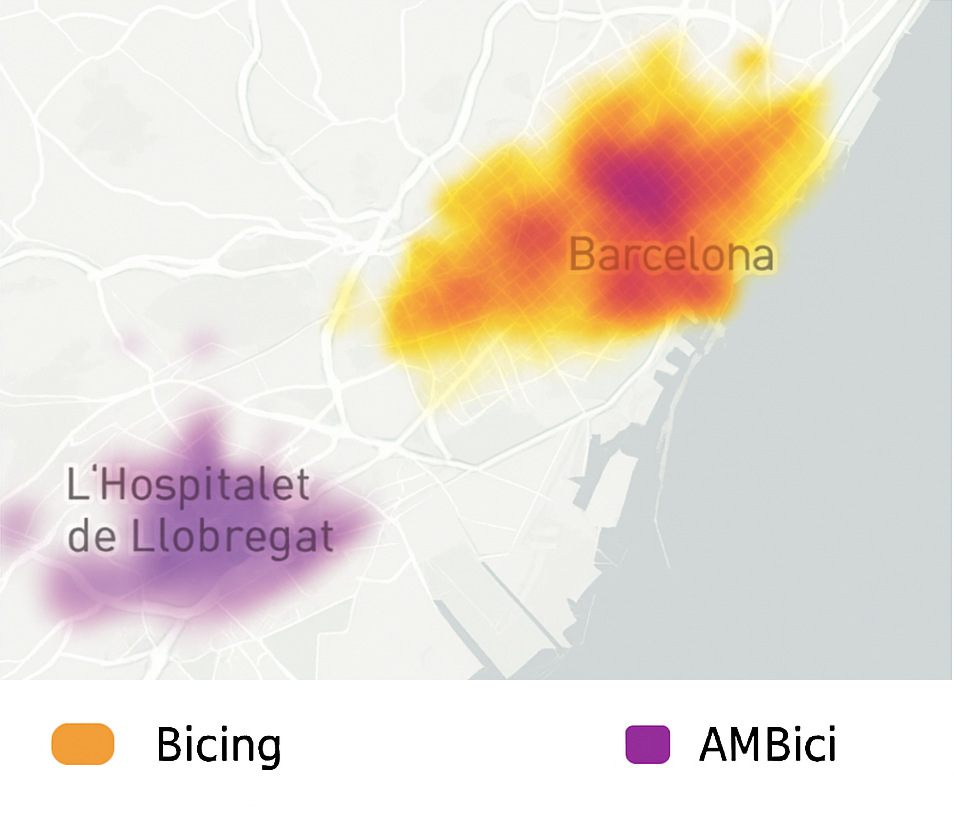
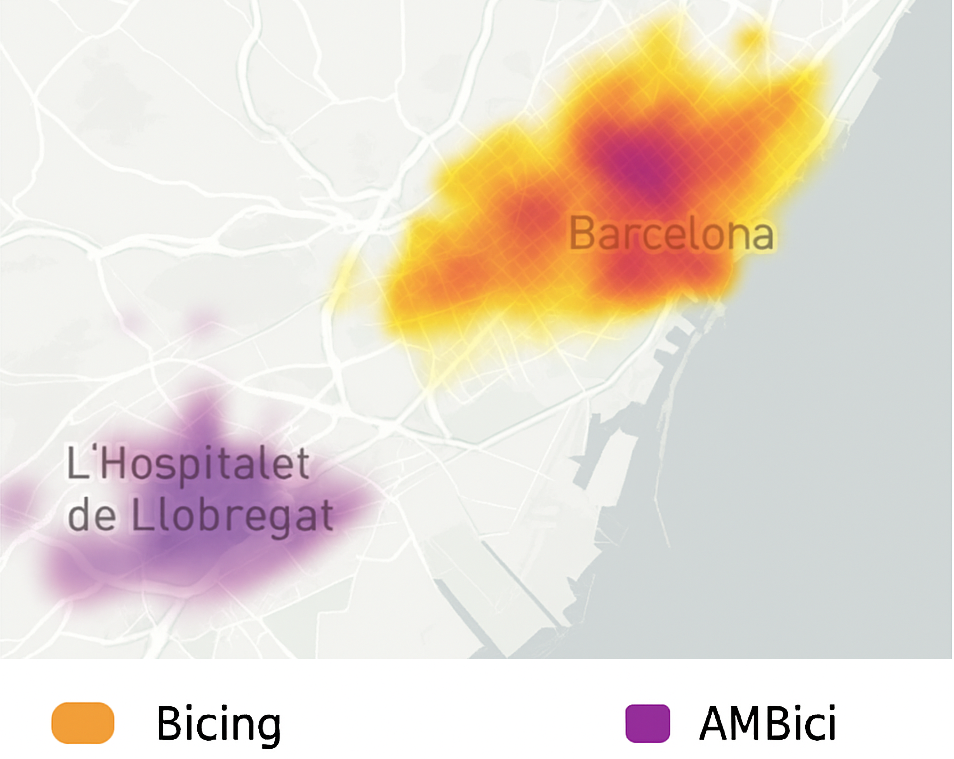
Problema amb figura resolt.

diff --git a/memoria/capitols/resultats/resultats.tex b/memoria/capitols/resultats/resultats.tex
@@ -42,11 +42,12 @@ Aquesta comparació permet veure diferències en capacitat entre les dues xarxes
 
 \begin{figure}[htbp]
   \centering
-  \includegraphics[width=0.7\textwidth]{imatges/compare_bicis.png}
+  \includegraphics[width=0.6\textwidth]{imatges/compare_bicis.png}
   \caption{Comparativa global de bicicletes lliures, espais lliures i canvis ràpids entre Bicing i AMBici.}
   \label{fig:compare_bicis}
   \end{figure}
 
+\vspace*{-0.5truecm}
 \subsection{Interpretació}
 
 Les tres figures confirmen les hipòtesis inicials del treball:
@@ -58,6 +59,7 @@ Les tres figures confirmen les hipòtesis inicials del treball:
 
 Aquestes visualitzacions aporten una visió més clara i intuïtiva del problema plantejat i mostren com la combinació de dades obertes i eines de programació pot ser útil per analitzar la mobilitat metropolitana.
 
+\clearpage
 \section{Anàlisi espacial i cobertura territorial}
 
 A partir dels mapes generats, es pot observar una clara separació territorial entre les dues xarxes. El Bicing cobreix principalment el nucli urbà de Barcelona, mentre que l’AMBici s’estén per municipis de l’àrea metropolitana com l’Hospitalet, Cornellà o Sant Adrià.
@@ -71,13 +73,14 @@ Una anàlisi més detallat de la cobertura territorial revela que:
     \item Els punts de transbord detectats es concentren en zones continues, però no estan senyalitzats ni pensats per facilitar el pas entre serveis.
 \end{itemize}
 
-\begin{figure}[htbp]
+\begin{figure}[h!]
   \centering
-  \includegraphics[width=0.85\textwidth]{imatges/mapaDeCalor_bicing_ambici.png}
-  \caption{Mapa de calor de la densitat d’estacions de Bicing (colors càlids) i AMBici (colors freds) a l’àrea metropolitana de Barcelona. Es pot observar la concentració d’estacions de Bicing al centre de la ciutat i la presència més dispersa d’AMBici a municipis com l’Hospitalet.}
+  \includegraphics[width=0.7\textwidth]{imatges/mapaDeCalor_bicing_ambici.png}
+  \caption{Mapa de calor de la densitat d’estacions de Bicing i AMBici}
   \label{fig:mapaDeCalor_bicing_ambici}
 \end{figure}
-
+\clearpage
+La figura~\ref{fig:mapaDeCalor_bicing_ambici} mostra el mapa de calor de la densitat d’estacions de Bicing (colors càlids) i AMBici (colors freds) a l’àrea metropolitana de Barcelona. Es pot observar la concentració d’estacions de Bicing al centre de la ciutat i la presència més dispersa d’AMBici a municipis com l’Hospitalet.
 Aquestes observacions podrien servir com a base per a estudis posteriors sobre equitat territorial, accessibilitat i planificació de la mobilitat.
 
 \section{Resum del programa final}
